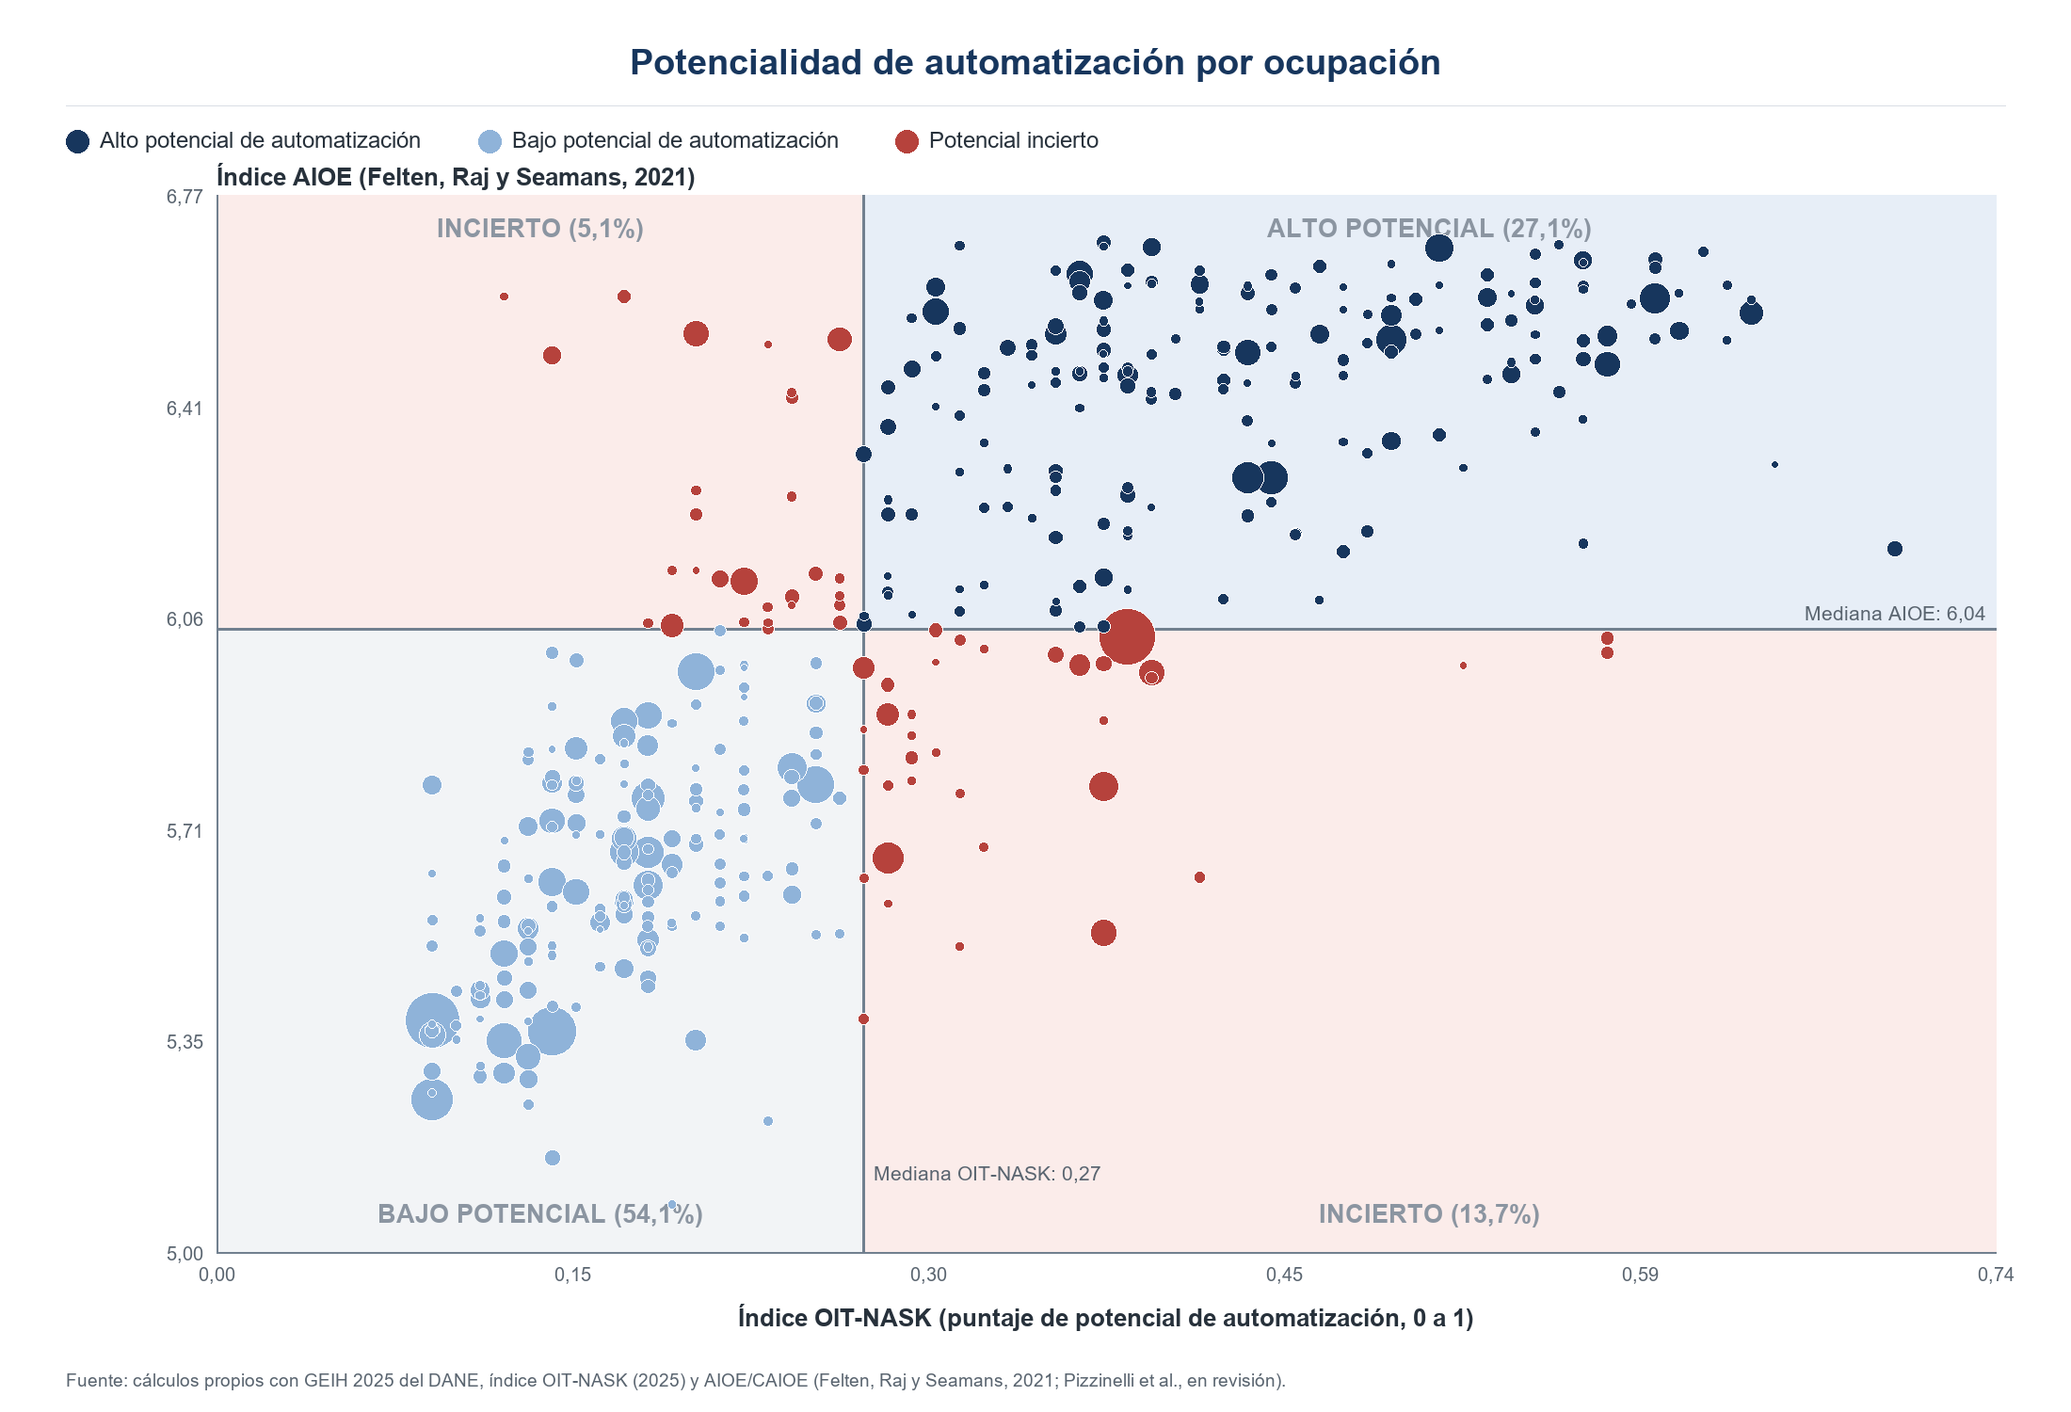
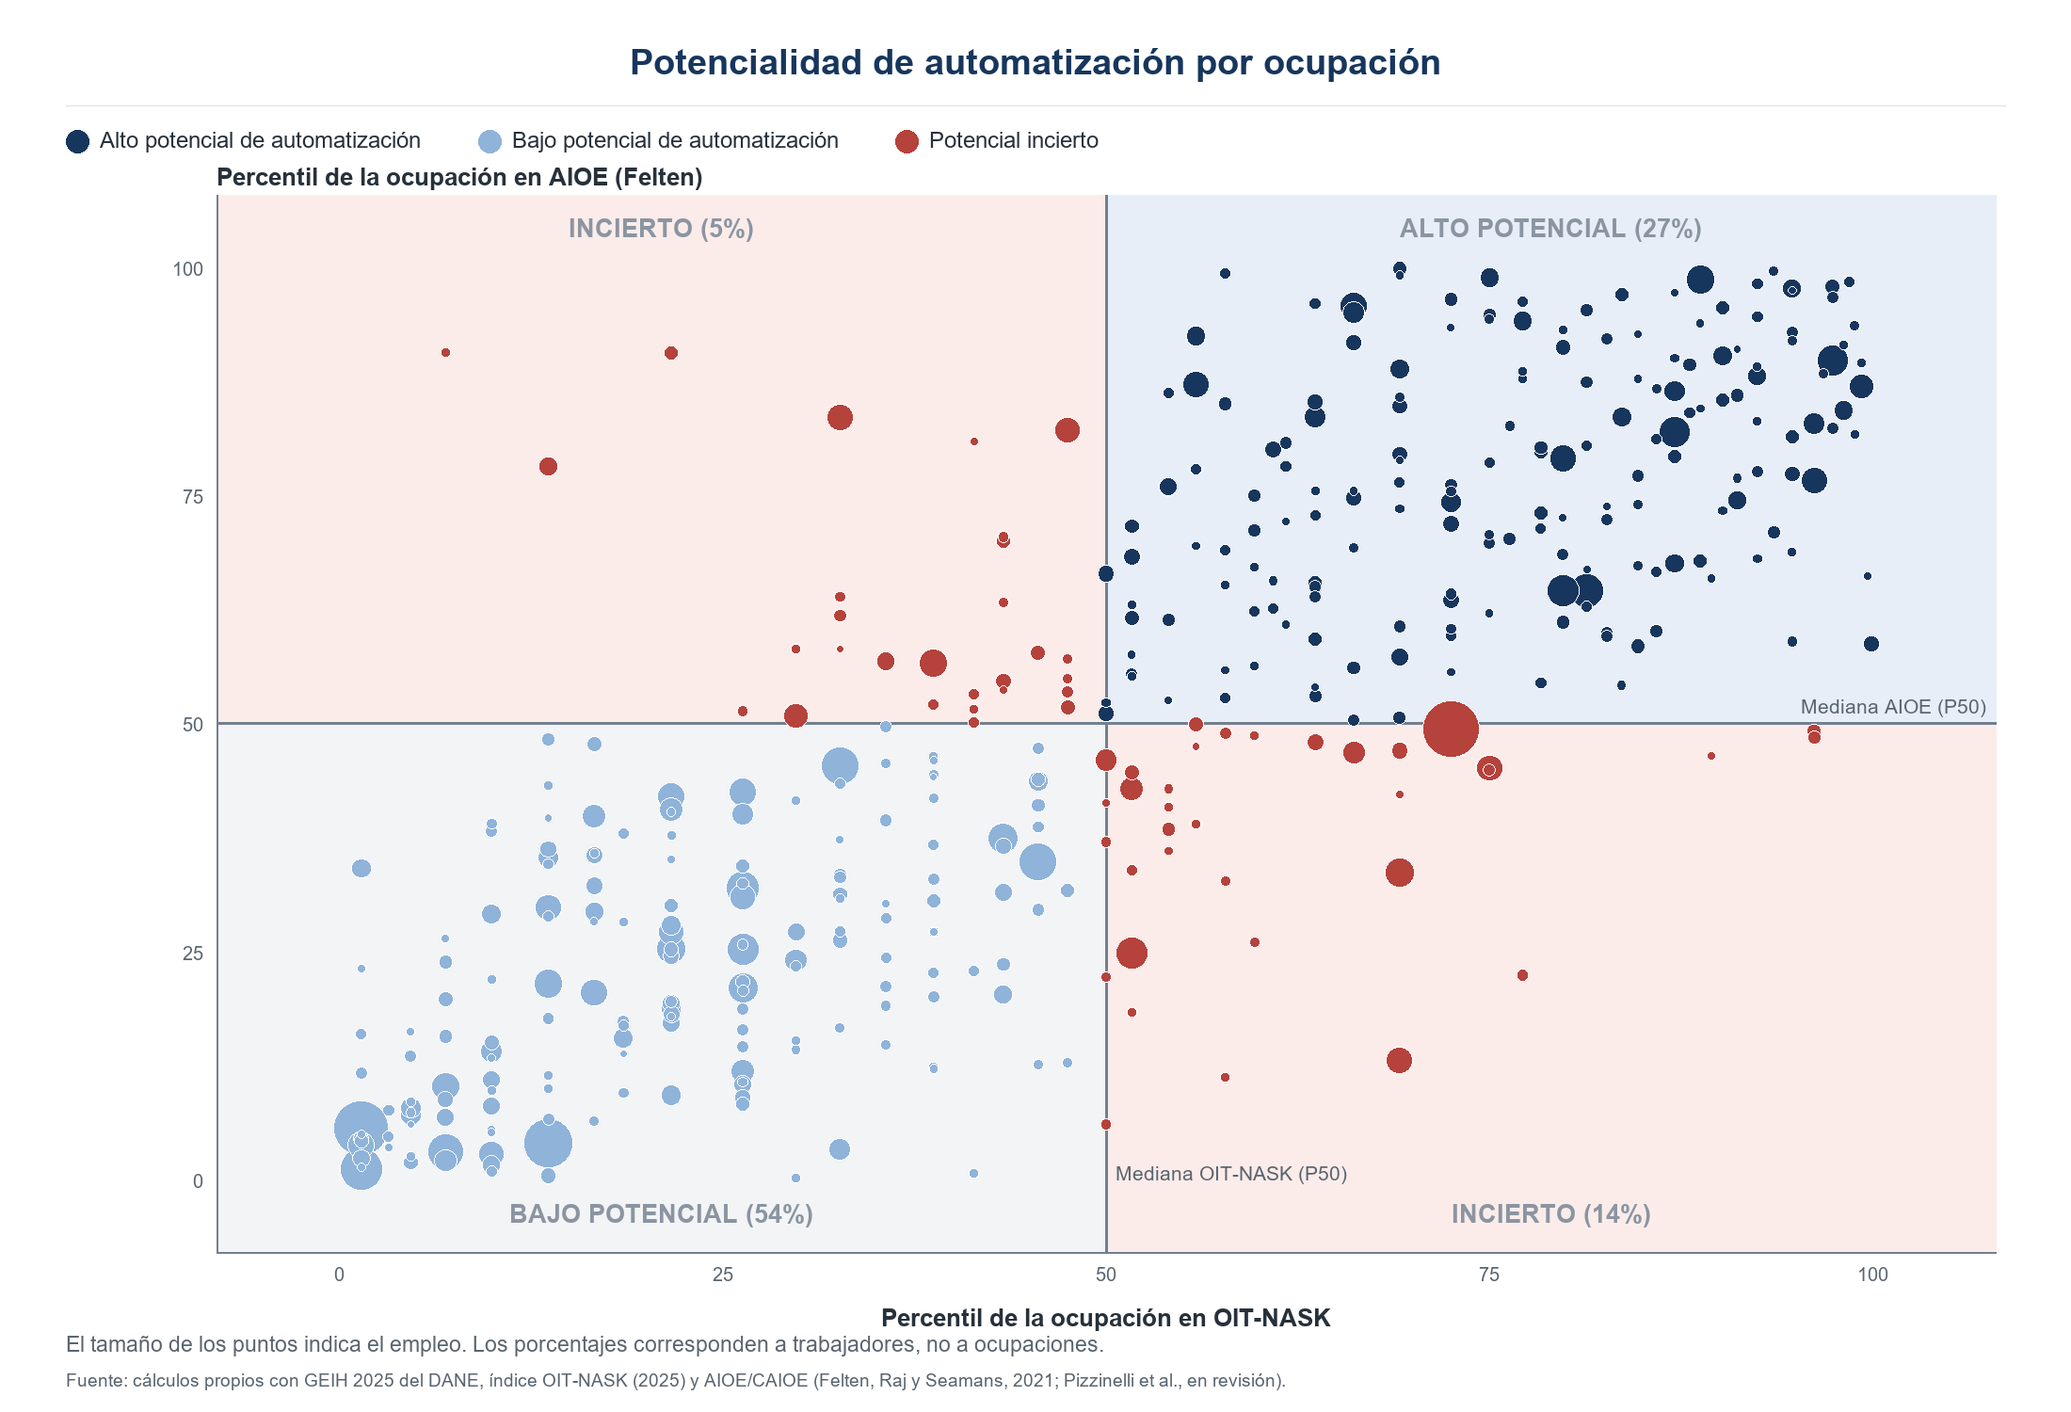
Simplifica la metodologia y presenta los indices en percentiles

diff --git a/main.tex b/main.tex
@@ -164,23 +164,32 @@ El informe consta de siete secciones, incluida esta introducción. La Sección \
 \section{Metodología}
 \label{sec:como_leer}
 
- 
-Distintos equipos de investigación han construido indicadores usando datos, metodologías y supuestos diferentes. Dos de los más usados son el índice de la Organización Internacional del Trabajo (OIT) y la Red Informática Científica y Académica de Polonia (NASK, por sus siglas en polaco), denominado OIT-NASK \citep{gmyrek2025}, y el índice de exposición ocupacional a la inteligencia artificial (\emph{Artificial Intelligence Occupational Exposure}, AIOE), de \citet{felten2021}. Cuando dos mediciones independientes del mismo fenómeno coinciden, esa coincidencia es información valiosa. Cuando no coinciden, ignorar el desacuerdo y quedarse con uno de los dos equivale a esconder la incertidumbre en vez de medirla.
+El informe utiliza dos índices. El primero es el índice de exposición ocupacional a la inteligencia artificial (\emph{Artificial Intelligence Occupational Exposure}, AIOE), de \citet{felten2021}. El segundo es el de la Organización Internacional del Trabajo (OIT) y la Red Informática Científica y Académica de Polonia (NASK, por sus siglas en polaco), denominado OIT-NASK \citep{gmyrek2025}.
 
-Este informe toma ese desacuerdo como objeto de estudio. En vez de elegir un índice y presentar sus resultados como si fueran un hecho establecido, cruza los dos para cada ocupación y cada trabajador de la Gran Encuesta Integrada de Hogares (GEIH) de 2025 \citep{dane_geih2025}, y clasifica el empleo en tres grupos: \textbf{alto potencial de automatización} (ambos índices coinciden en que es alto), \textbf{bajo potencial} (ambos coinciden en que es bajo), e \textbf{incierto} (los índices no coinciden).
+En \textbf{AIOE, de Felten}, cuanto mayor es el indicador, más se parece lo que la IA puede hacer a lo que una persona necesita saber hacer en esa ocupación. En \textbf{OIT-NASK}, cuanto mayor es el indicador, mayor es el potencial de automatización de las tareas de una ocupación.
 
+Para compararlos, ordenamos las ocupaciones de menor a mayor puntaje en cada índice y expresamos su posición en percentiles. Un percentil más alto indica una posición más alta frente a las demás ocupaciones, no un porcentaje de tareas automatizables.
 
-\textbf{Felten} mira las habilidades que requiere una ocupación y qué tanto coinciden con lo que puede hacer la IA. A mayor indicador, mayor coincidencia \citep{felten2021}.
+\begin{figure}[H]
+\centering
+\includegraphics[width=\textwidth]{figures/fig_28_dispersion_oit_aioe.png}
+\caption{Posición de las ocupaciones en los dos índices, expresada en percentiles}
+\label{fig:dispersion}
+\end{figure}
 
-En \textbf{OIT-NASK}, cuanto mayor es el indicador, mayor es el potencial de automatización de las tareas de una ocupación \citep{gmyrek2025}.
+La Figura \ref{fig:dispersion} presenta la posición de cada ocupación en los dos índices. El eje horizontal corresponde a OIT-NASK y el vertical, a AIOE. Cada punto representa una ocupación. En general, las ocupaciones que aparecen en posiciones altas en un índice también aparecen en posiciones altas en el otro, aunque no siempre coinciden.
 
-Nuestro indicador combina las habilidades que requiere la ocupación y la posibilidad de automatizar sus tareas. Comparamos el puntaje de cada ocupación con la mediana de cada índice y distinguimos tres grupos:
+Las líneas de la figura marcan la mediana de cada índice, que corresponde al percentil 50. Usamos ese punto de corte para clasificar las ocupaciones en tres grupos:
 
 \begin{itemize}
-\item \textbf{Alto potencial relativo de automatización.} Ambos puntajes son iguales o superiores a sus respectivas medianas. Coinciden una mayor correspondencia entre las habilidades requeridas y las capacidades de la IA y un mayor potencial de automatización de las tareas.
-\item \textbf{Bajo potencial relativo de automatización.} Ambos puntajes están por debajo de sus respectivas medianas. Coinciden una menor correspondencia entre las habilidades requeridas y las capacidades de la IA y un menor potencial de automatización de las tareas.
-\item \textbf{Potencial incierto.} Un puntaje es igual o superior a su mediana y el otro está por debajo. Hay dos posibilidades. En una, las tareas tienen un mayor potencial relativo de automatización, pero las capacidades de la IA coinciden menos con las habilidades requeridas. En la otra, las capacidades de la IA coinciden más con esas habilidades, pero las tareas tienen un menor potencial relativo de automatización.
+\item \textbf{Alto potencial relativo de automatización.} La ocupación está en la mediana o por encima de ella en ambos índices.
+\item \textbf{Bajo potencial relativo de automatización.} La ocupación está por debajo de la mediana en ambos índices.
+\item \textbf{Potencial incierto.} La ocupación está en la mediana o por encima de ella en un índice, pero por debajo en el otro.
 \end{itemize}
+
+``Alto'' y ``bajo'' indican un mayor o menor potencial de automatización frente a las demás ocupaciones. ``Incierto'' significa que los dos índices no coinciden en esa clasificación.
+
+Finalmente, utilizamos la Gran Encuesta Integrada de Hogares (GEIH) de 2025 \citep{dane_geih2025} para calcular qué porcentaje de los trabajadores está en cada grupo, según su ocupación. Los resultados corresponden a los trabajadores cuyas ocupaciones tienen información en ambos índices.
 
 \section{Resultados}
 \label{sec:resultados}
@@ -195,17 +204,6 @@ Nuestro indicador combina las habilidades que requiere la ocupación y la posibi
 \end{figure}
 
 La Figura \ref{fig:nacional} presenta la distribución de los trabajadores entre las tres categorías de potencial relativo de automatización. El 27\,\% de los trabajadores está en ocupaciones con alto potencial relativo de automatización, el 54\,\% en ocupaciones con bajo potencial relativo y el 19\,\% en ocupaciones con potencial incierto. Predomina, por tanto, el bajo potencial relativo, mientras que algo más de uno de cada cuatro trabajadores está en el grupo de alto potencial. Los porcentajes se calculan entre los ocupados con información en ambos indicadores.
-
-\subsection{¿Por qué no coinciden los índices?}
-
-\begin{figure}[H]
-\centering
-\includegraphics[width=\textwidth]{figures/fig_28_dispersion_oit_aioe.png}
-\caption{Cruce de los indicadores por ocupación}
-\label{fig:dispersion}
-\end{figure}
-
-La Figura \ref{fig:dispersion} presenta el cruce de los puntajes de Felten y OIT-NASK por ocupación. Cada punto representa una ocupación. Las ubicadas arriba a la derecha tienen alto potencial relativo de automatización y las de abajo a la izquierda, bajo potencial relativo. Las dos zonas rojas corresponden al potencial incierto. El 14\,\% de los trabajadores está en ocupaciones con un puntaje alto en OIT-NASK y bajo en Felten, y el 5\,\% presenta la combinación contraria. El desacuerdo más frecuente es, entonces, que el indicador de tareas señale mayor potencial de automatización, pero el de habilidades no dé una señal igualmente alta.
 
 \subsection{Ingreso}
 
@@ -394,6 +392,8 @@ Para el cruce entre indicadores, el corte de AIOE es la mediana de su puntaje en
 En un ejemplo hipotético, un auxiliar contable lee facturas, compara sus valores con los pagos, redacta respuestas a proveedores y archiva soportes físicos. Estas tareas requieren comprensión escrita, razonamiento numérico, expresión escrita y destreza manual. La IA puede extraer datos, detectar diferencias y proponer respuestas, pero guardar los papeles requiere intervención física. OIT-NASK evaluaría la capacidad de la IA generativa para realizar cada tarea y promediaría sus puntajes \citep{gmyrek2025}. El AIOE de \citet{felten2021} evaluaría la relación entre las habilidades requeridas y las aplicaciones de IA, ponderando cada habilidad por su importancia y nivel requerido en la ocupación. Ninguno de los dos puntajes determina por sí solo si se perderá ese empleo.
 
 Para interpretar los puntajes, el informe compara cada ocupación con las demás ocupaciones presentes en la GEIH que tienen información válida en ambos indicadores. El corte es la \textbf{mediana}, no la media. La mediana es el valor central de los puntajes ordenados de menor a mayor. Cada ocupación pesa lo mismo para calcular ese corte, independientemente de cuántas personas la desempeñen. En cada indicador, llamamos ``alto'' a un puntaje igual o superior a su mediana y ``bajo'' a uno inferior. Esta regla no implica que la mitad de los trabajadores quede en cada grupo. Los empates tampoco garantizan dos grupos de igual número de ocupaciones.
+
+La Figura \ref{fig:dispersion} expresa los puntajes en percentiles para mostrar ambos índices en una escala común. Para cada índice, se calcula $100(r-0{,}5)/N$, donde $r$ es el rango de la ocupación en orden ascendente y $N$ es el número de ocupaciones con información en ambos índices. Los empates reciben el rango promedio. Si un puntaje coincide con la mediana, se ubica en el percentil 50 para conservar la correspondencia visual con el corte. Esta transformación solo cambia la escala de la figura. La clasificación se calcula sobre los puntajes originales y sus medianas.
 
 \textbf{En AIOE, de Felten y sus coautores,} un puntaje alto indica que las habilidades requeridas por la ocupación, ponderadas por su importancia y nivel requerido, tienen una relación relativamente mayor con las aplicaciones de IA consideradas. Un puntaje bajo indica una relación relativamente menor. Esa relación aproxima qué tan pertinentes son las capacidades de la IA para el trabajo. No demuestra que la tecnología pueda reemplazar esas habilidades ni realizar de manera autónoma las tareas que las requieren \citep{felten2021}.
 

diff --git a/code/03_analisis_incertidumbre.py b/code/03_analisis_incertidumbre.py
@@ -399,11 +399,21 @@ def _plot_legend(draw, items, x, y, font):
         x += 36 + (box[2] - box[0]) + 60
 
 
+def occupation_percentiles(scores: pd.Series) -> pd.Series:
+    """Rangos medios en percentiles, con los empates en la mediana en P50."""
+    percentiles = 100 * (scores.rank(method="average") - 0.5) / scores.count()
+    return percentiles.mask(scores.eq(scores.median()), 50.0)
+
+
 def save_agreement_scatter(table: pd.DataFrame, filename: str) -> None:
-    """Dispersion OIT-NASK (eje x) contra AIOE (eje y) por ocupacion. Las
+    """Percentiles OIT-NASK (eje x) contra AIOE (eje y) por ocupacion. Las
     lineas de corte (medianas de cada indice) definen cuatro zonas: en dos
     coinciden los indices y las otras dos son la discrepancia (arriba a la
     izquierda: AIOE alto y OIT bajo; abajo a la derecha: OIT alto y AIOE bajo)."""
+    table = table.assign(
+        oit_percentil=occupation_percentiles(table["oit_puntaje"]),
+        aioe_percentil=occupation_percentiles(table["aioe"]),
+    )
     width, height = 2200, 1500
     image = Image.new("RGB", (width, height), "white")
     draw = ImageDraw.Draw(image)
@@ -428,9 +438,9 @@ def save_agreement_scatter(table: pd.DataFrame, filename: str) -> None:
     top += 50
     left, right = 230, 2120
     bottom = height - 170
-    x_min, x_max = 0.0, float(table["oit_puntaje"].max()) * 1.06
-    y_min = float(table["aioe"].min()) - 0.08
-    y_max = float(table["aioe"].max()) + 0.08
+    # Leave room for edge bubbles and quadrant labels outside the data range.
+    x_min, x_max = -8.0, 108.0
+    y_min, y_max = -8.0, 108.0
 
     def to_x(value: float) -> float:
         return left + (right - left) * (value - x_min) / (x_max - x_min)
@@ -438,8 +448,8 @@ def save_agreement_scatter(table: pd.DataFrame, filename: str) -> None:
     def to_y(value: float) -> float:
         return bottom - (bottom - top) * (value - y_min) / (y_max - y_min)
 
-    x_cut = to_x(float(table["corte_oit"].iloc[0]))
-    y_cut = to_y(float(table["corte_aioe"].iloc[0]))
+    x_cut = to_x(50.0)
+    y_cut = to_y(50.0)
     draw.rectangle((x_cut, top, right, y_cut), fill="#E7EEF7")
     draw.rectangle((left, top, x_cut, y_cut), fill="#FBECEA")
     draw.rectangle((left, y_cut, x_cut, bottom), fill="#F2F4F6")
@@ -450,31 +460,30 @@ def save_agreement_scatter(table: pd.DataFrame, filename: str) -> None:
     solo_aioe = table.loc[~table["is_oit_alta"] & table["is_aioe_alta"], "ocupados"].sum() / total
     solo_oit = table.loc[table["is_oit_alta"] & ~table["is_aioe_alta"], "ocupados"].sum() / total
     zones = [
-        ((x_cut + right) / 2, top + 20, f"ALTO POTENCIAL ({share.get(ALTA_LABEL, 0):.1%})"),
-        ((left + x_cut) / 2, top + 20, f"INCIERTO ({solo_aioe:.1%})"),
-        ((left + x_cut) / 2, bottom - 56, f"BAJO POTENCIAL ({share.get(BAJA_LABEL, 0):.1%})"),
-        ((x_cut + right) / 2, bottom - 56, f"INCIERTO ({solo_oit:.1%})"),
+        ((x_cut + right) / 2, top + 20, f"ALTO POTENCIAL ({share.get(ALTA_LABEL, 0):.0%})"),
+        ((left + x_cut) / 2, top + 20, f"INCIERTO ({solo_aioe:.0%})"),
+        ((left + x_cut) / 2, bottom - 56, f"BAJO POTENCIAL ({share.get(BAJA_LABEL, 0):.0%})"),
+        ((x_cut + right) / 2, bottom - 56, f"INCIERTO ({solo_oit:.0%})"),
     ]
     for cx, cy, text in zones:
         text = text.replace(".", ",")
         box = draw.textbbox((0, 0), text, font=font_zone)
         draw.text((cx - (box[2] - box[0]) / 2, cy), text, font=font_zone, fill="#8B95A1")
 
-    for step in range(6):
-        x_value = x_min + (x_max - x_min) * step / 5
-        tick = f"{x_value:.2f}".replace(".", ",")
+    for x_value in [0, 25, 50, 75, 100]:
+        tick = str(x_value)
         box = draw.textbbox((0, 0), tick, font=font_tick)
         draw.text((to_x(x_value) - (box[2] - box[0]) / 2, bottom + 12), tick, font=font_tick, fill="#5A6570")
-        y_value = y_min + (y_max - y_min) * step / 5
-        tick_y = f"{y_value:.2f}".replace(".", ",")
+        y_value = x_value
+        tick_y = str(y_value)
         box_y = draw.textbbox((0, 0), tick_y, font=font_tick)
         draw.text((left - 14 - (box_y[2] - box_y[0]), to_y(y_value) - 10), tick_y, font=font_tick, fill="#5A6570")
 
     draw.line((x_cut, top, x_cut, bottom), fill="#71808F", width=3)
     draw.line((left, y_cut, right, y_cut), fill="#71808F", width=3)
     font_cut = base.image_font(21)
-    cut_oit_text = f"Mediana OIT-NASK: {float(table['corte_oit'].iloc[0]):.2f}".replace(".", ",")
-    cut_aioe_text = f"Mediana AIOE: {float(table['corte_aioe'].iloc[0]):.2f}".replace(".", ",")
+    cut_oit_text = "Mediana OIT-NASK (P50)"
+    cut_aioe_text = "Mediana AIOE (P50)"
     draw.text((x_cut + 10, bottom - 96), cut_oit_text, font=font_cut, fill="#5A6570")
     box = draw.textbbox((0, 0), cut_aioe_text, font=font_cut)
     draw.text((right - 10 - (box[2] - box[0]), y_cut - 30), cut_aioe_text, font=font_cut, fill="#5A6570")
@@ -482,8 +491,8 @@ def save_agreement_scatter(table: pd.DataFrame, filename: str) -> None:
     colors = {ALTA_LABEL: ALTA_COLOR, BAJA_LABEL: BAJA_COLOR, INCIERTO_LABEL: INCIERTO_COLOR}
     max_size = float(table["ocupados"].max()) or 1.0
     for _, row in table.sort_values("ocupados", ascending=False).iterrows():
-        x = to_x(float(row["oit_puntaje"]))
-        y = to_y(float(row["aioe"]))
+        x = to_x(float(row["oit_percentil"]))
+        y = to_y(float(row["aioe_percentil"]))
         radius = 4 + 26 * (float(row["ocupados"]) / max_size) ** 0.5
         draw.ellipse(
             (x - radius, y - radius, x + radius, y + radius),
@@ -494,10 +503,16 @@ def save_agreement_scatter(table: pd.DataFrame, filename: str) -> None:
 
     draw.line((left, top, left, bottom), fill="#71808F", width=2)
     draw.line((left, bottom, right, bottom), fill="#71808F", width=2)
-    x_label = "Índice OIT-NASK (puntaje de potencial de automatización, 0 a 1)"
+    x_label = "Percentil de la ocupación en OIT-NASK"
     box = draw.textbbox((0, 0), x_label, font=font_axis)
     draw.text(((left + right - (box[2] - box[0])) / 2, bottom + 55), x_label, font=font_axis, fill="#27313B")
-    draw.text((left, top - 34), "Índice AIOE (Felten, Raj y Seamans, 2021)", font=font_axis, fill="#27313B")
+    draw.text((left, top - 34), "Percentil de la ocupación en AIOE (Felten)", font=font_axis, fill="#27313B")
+    draw.text(
+        (70, height - 85),
+        "El tamaño de los puntos indica el empleo. Los porcentajes corresponden a trabajadores, no a ocupaciones.",
+        font=base.image_font(23),
+        fill="#5A6570",
+    )
     draw.text((70, height - 45), SOURCE, font=base.image_font(19), fill="#5A6570")
     image.save(FIG_DIR / filename, dpi=(220, 220))
 
